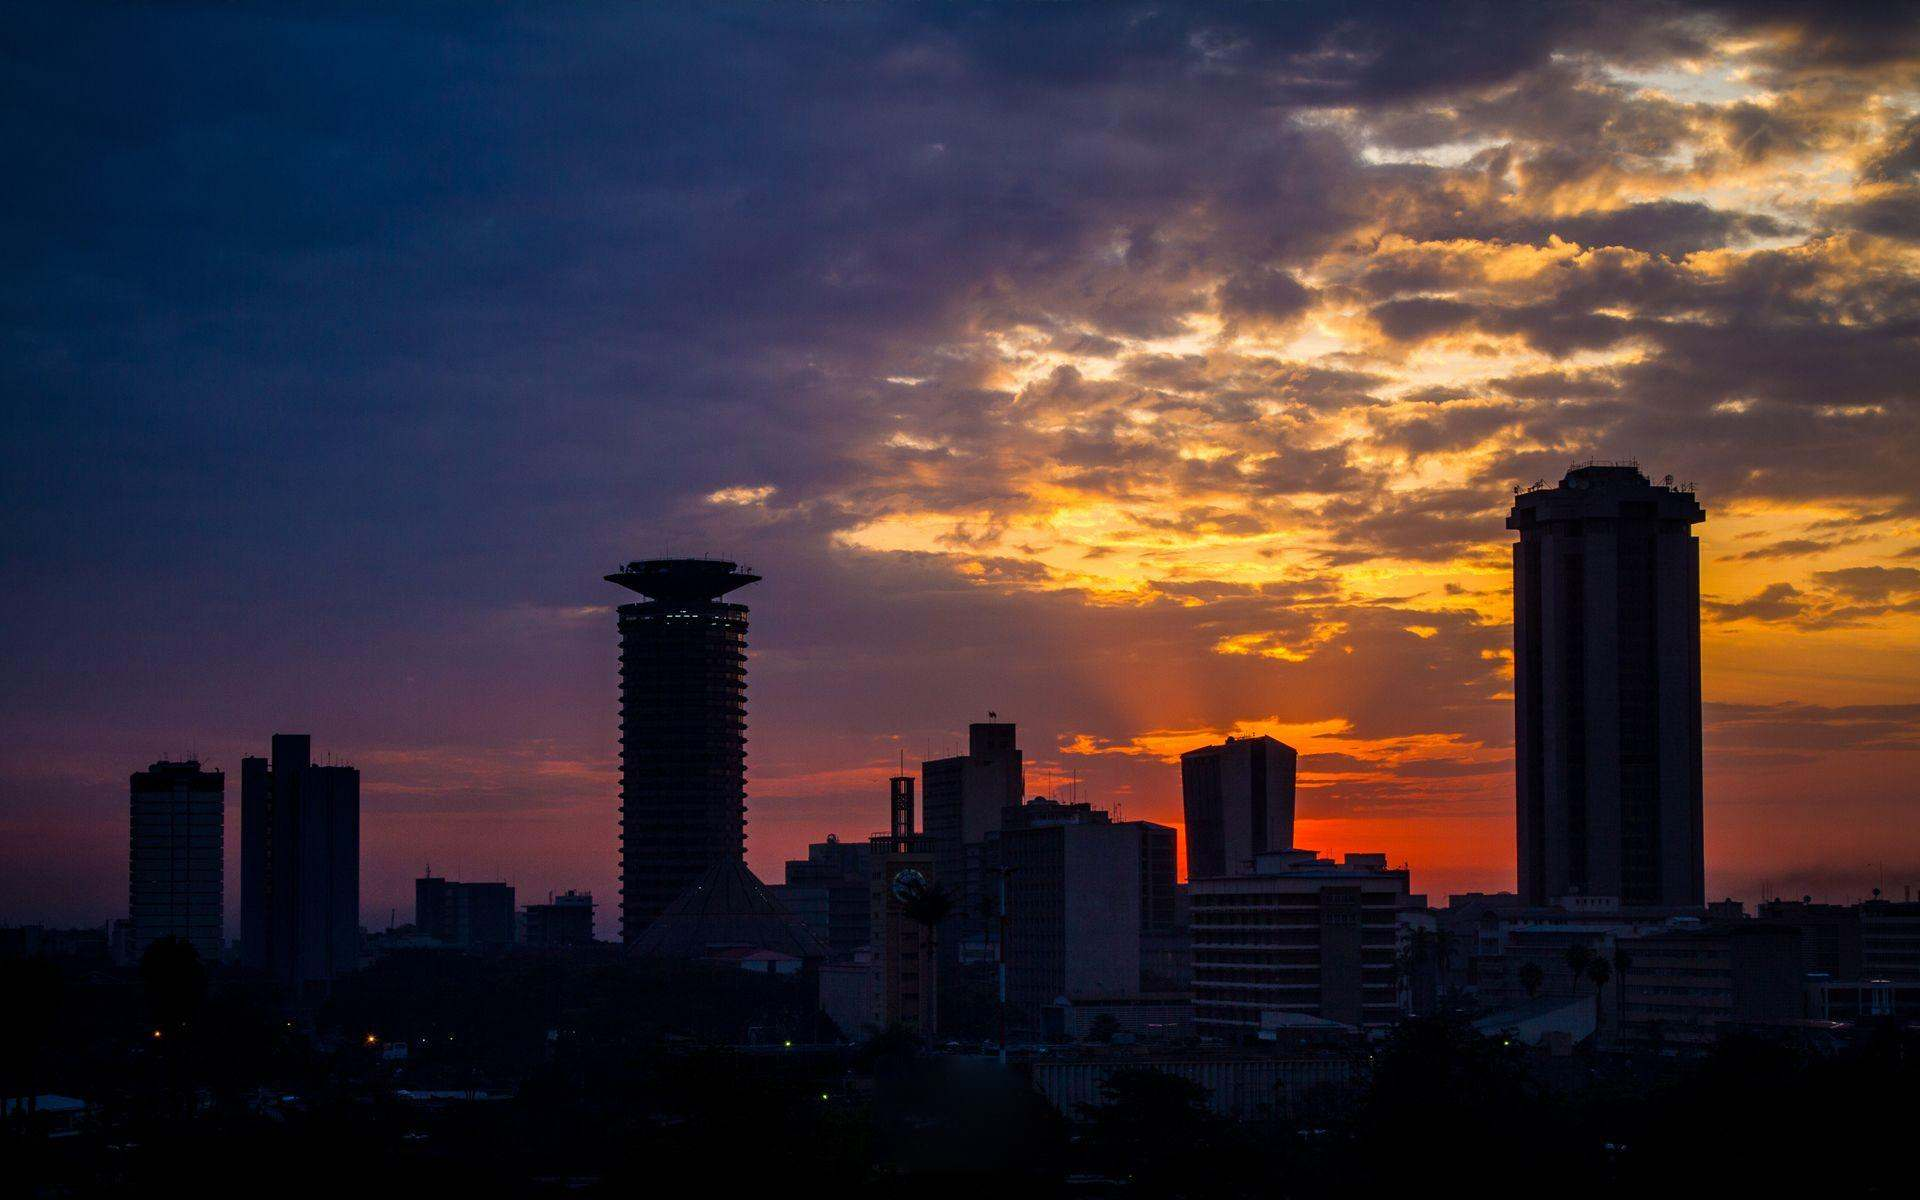
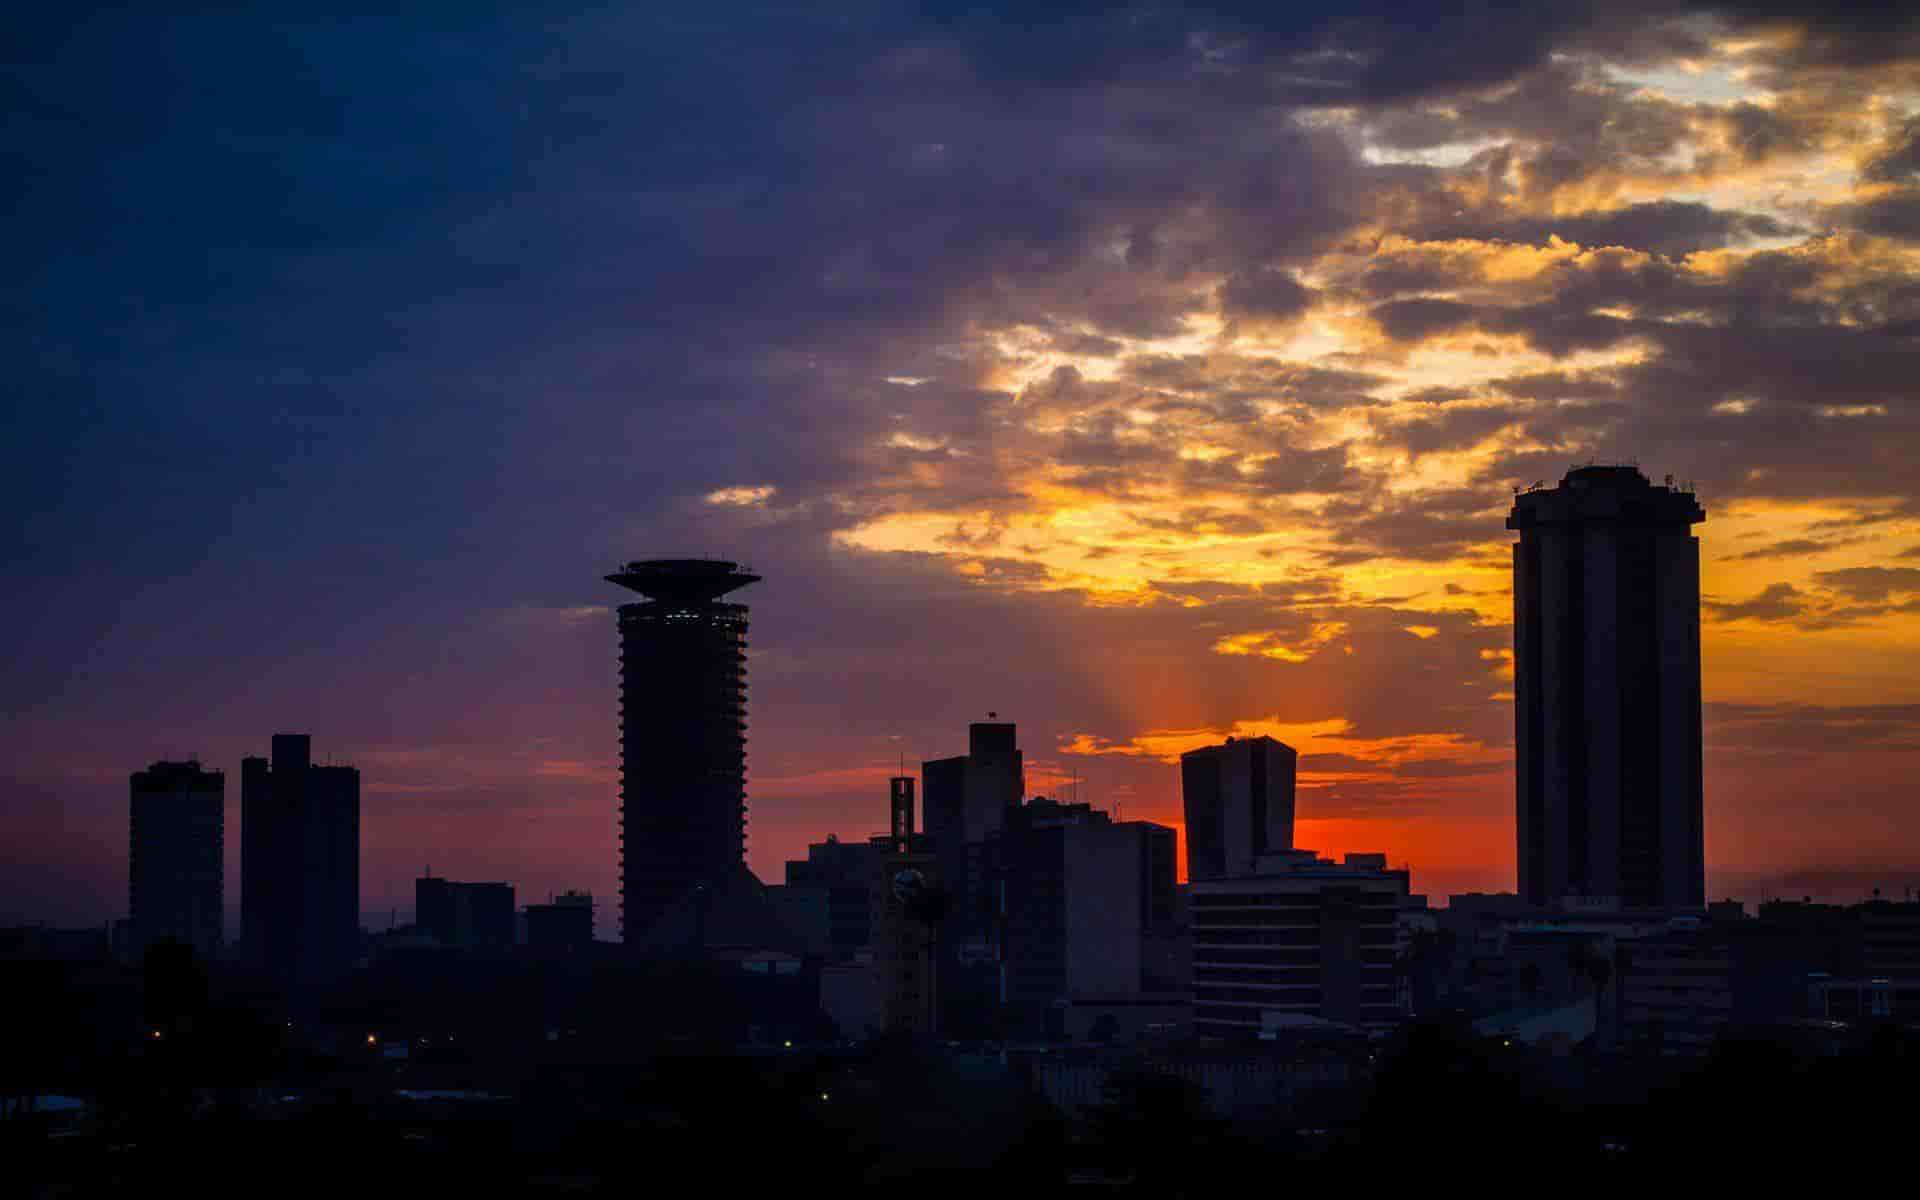
reduce image sizes

diff --git a/src/views/Home.vue b/src/views/Home.vue
@@ -56,7 +56,7 @@
               </div>
             </div>
             <div class="project">
-              <img src="/images/home/africa.png" alt="africa image" />
+              <img src="/images/home/africa.png" alt="africa image" width="100%" height="100%"/>
             </div>
           </div>
         </div>
@@ -84,7 +84,7 @@
           </div>
           <div class="overview-images">
             <div class="col one">
-              <img src="images/stella.jpg" alt="advocate" loading="lazy" height="280px" width="100%"/>
+              <img src="images/Purity-Mwangi.jpg" alt="advocate" loading="lazy" height="280px" width="100%"/>
               <img src="images/Susan-Mwango.jpg" alt="advocate" loading="lazy" height="280px" width="100%"/>
             </div>
             <div class="col two">
